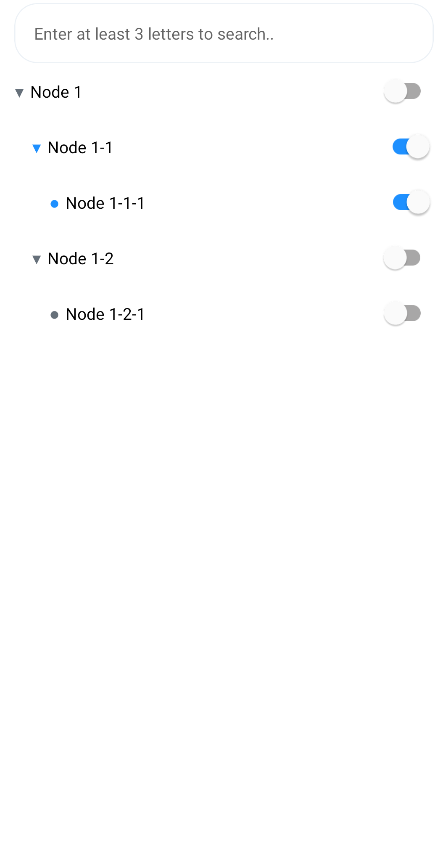
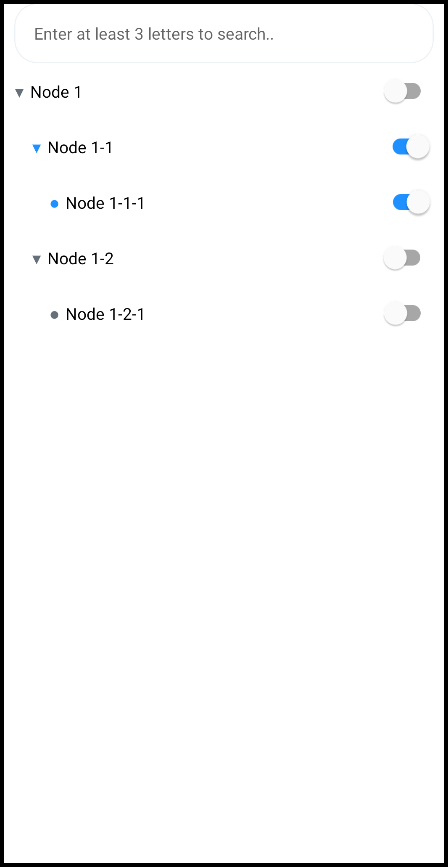
readme update

Changed region(s): [[0.0, 0.0, 1.0, 1.0]]

diff --git a/README.md b/README.md
@@ -2,7 +2,7 @@
 
 Searchable treeview for react-native.
 
-<img width="360" height="640" src="./example/app.png">
+<img width="360" src="./example/app.png">
 
 ## Installation
 
